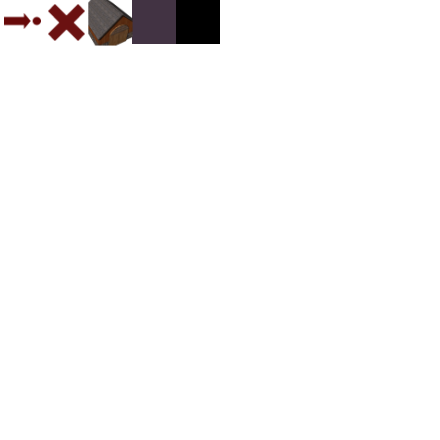
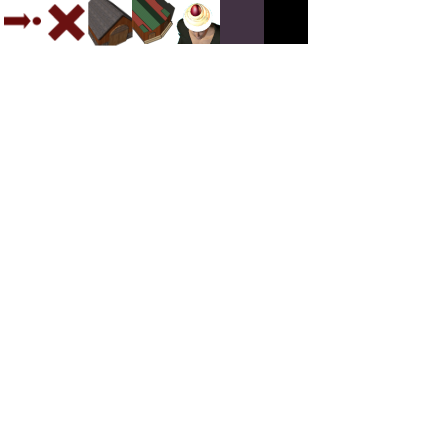
changelog'a bakın

Changed region(s): [[0.2955, 0.0, 0.7091, 0.1182]]

diff --git a/Player.cpp b/Player.cpp
@@ -31,14 +31,13 @@ void Player::buildStartingUnits(int x, int y)
 {
 	if (faction == "Osmanlı")
 	{
-		Koylu* k = new Koylu(screen);
-		k->instantBuild();
-		k->setPosition(x, y);
-		nesneler.push_back(k);
+		createKoylu(true);
 		
-		Ev* e = new Ev(screen);
+		SehirMerkezi* e = new SehirMerkezi(screen);
 		e->instantBuild();
-		e->setPosition(100, 300);
+		e->setPosition(128, 320);
+		Player *me = this;
+		e->createKoylu->dugme->clicked = makeFunctor((CBFunctor0*)0, *me, &Player::createKoylu);
 		nesneler.push_back(e);
 	}
 	else if (faction == "Bizans")
@@ -64,11 +63,10 @@ void Player::subtractCost(Cost a)
 	stone.setAmount(stone.getAmount() - a.getStoneAmount());
 }
 
-/*
 void Player::createKoylu()
 {
+	Koylu *temp = new Koylu(screen);
 	// öncelikle bakalim yapabiliyor muyuz...
-	Koylu *temp = new Koylu();
 	if (!haveReqs(temp))
 	{
 		cout << "Bu birim için gereksinimler karşılanmamış..." << endl;
@@ -83,14 +81,27 @@ void Player::createKoylu()
 		return;
 	}
 	
-	// Bu ikisini geçtiyse, birimSirasina at... 
-	birimSirasi.push_back(temp);
 	// paradan kes
 	subtractCost(temp->getCost());
+	temp->setPosition(360, 450);
+	// 
+	nesneler.push_back(temp);
+}
+
+void Player::createKoylu(bool instant)
+{
+	Koylu *temp = new Koylu(screen);
+	if (instant) 
+	{
+		temp->instantBuild();
+		temp->setPosition(360, 450);
+		nesneler.push_back(temp);
+		return;
+	}
 	
 	
 }
-
+/*
 void Player::createPiyade()
 {
 	// sonra
@@ -107,6 +118,8 @@ void Player::update()
 	list<BaseObject*>::iterator iter;
 	for(iter=nesneler.begin();iter!=nesneler.end();iter++)
 	{
+		if (!(*iter)->build())
+			break;
 		if ((*iter)->getType() == BaseObject::UNIT)
 		{
 			BaseUnit* birim = (BaseUnit*)(*iter);

diff --git a/Buildings.cpp b/Buildings.cpp
@@ -34,6 +34,20 @@ SehirMerkezi::SehirMerkezi(SDL_Surface *scr):BaseBuilding(scr, "Şehir Merkezi (
 	addReq("Temel Teknoloji");
 	faction = "Osmanlı";
 	cost = Cost(400, 0, 400);
+	
+	// 
+	setResim("graphics/buildings/osmanli/sehirMerkezi1.png");
+	healthBar = new SDLProgressBar(128, 4, GREEN, 0, hitpoints);
+	
+	komutlar = new SDLScreen(screen);
+	SDL_Rect trect;
+	trect.x = 176; trect.y = 0;
+	trect.w = trect.h = 44;
+	
+	createKoylu = new SDLCommandButton(screen, trect, "Yeni Köylü", new Koylu(screen));
+	createKoylu->setPosition(648, 195);
+	// createKoylu->dugme->clicked = 0;
+	komutlar->addWidget(createKoylu);
 }
 
 AskerOcagi::AskerOcagi(SDL_Surface *scr):BaseBuilding(scr, "Asker Ocağı")

diff --git a/SDLFont.cpp b/SDLFont.cpp
@@ -1,5 +1,8 @@
 #include "SDLFont.h"
 
+// TTF_Font* SDLFont::font = TTF_OpenFont("font.ttf", 14);
+TTF_Font* SDLFont::font = 0;
+
 SDLFont::SDLFont(string str, int size, SDL_Color color)
 {
 	if (!TTF_WasInit() && TTF_Init() == -1)
@@ -7,9 +10,13 @@ SDLFont::SDLFont(string str, int size, SDL_Color color)
 		cout << "err at sdl_ttf init" << endl;
 		return;
 	}
-	TTF_Font *font;
+	
+	//TTF_Font *font;
 	/// Font used here is a constant value: font.ttf
-	font = TTF_OpenFont("font.ttf", size);
+	//font = TTF_OpenFont("font.ttf", size);
+	if (font == 0)
+		font = TTF_OpenFont("font.ttf", 14);
+	
 	if (!font)
 	{
 		cout << "err at loading font" << endl;

diff --git a/SDLCommandButton.cpp b/SDLCommandButton.cpp
@@ -1,5 +1,7 @@
 #include "SDLCommandButton.h"
 
+SDLWidget* SDLCommandButton::ana = 0;
+
 SDLCommandButton::SDLCommandButton(SDL_Surface *scr, SDL_Rect k, string info, BaseObject* nesne)
 {
 	screen = scr;
@@ -13,7 +15,8 @@ SDLCommandButton::SDLCommandButton(SDL_Surface *scr, SDL_Rect k, string info, Ba
 	
 	dugme = new SDLButton("ui/commandButton.png", "");
 	dugme->clicked = 0;
-	ana = new SDLWidget("ui/commandList.png");
+	if (ana == 0)
+		ana = new SDLWidget("ui/commandList.png");
 	
 	aciklama = new SDLScreen(screen);
 	

diff --git a/Player.h b/Player.h
@@ -5,7 +5,7 @@
 #include <string>
 #include <list>
 #include <vector>
-
+#include "callback.h"
 #include "Cost.h"
 #include "Buildings.h"
 #include "Units.h"
@@ -52,7 +52,8 @@ class Player
 	void eventHandler(SDL_Event *event);
 	
 // 	// osmanlı birimleri
-// 	void createKoylu();
+	void createKoylu();
+ 	void createKoylu(bool instant);
 // 	void createAzab();
 // 	void createPiyade();
 // 	

diff --git a/SDLCommandButton.h b/SDLCommandButton.h
@@ -38,10 +38,12 @@ class SDLCommandButton:public SDLWidget
 	}
 	SDLButton *dugme;
 	
+	static SDLWidget *ana;
+	
 	protected:
 	bool over;
 	SDL_Rect kare;
-	SDLWidget *ana, *woodIcon, *foodIcon, *stoneIcon;
+	SDLWidget *woodIcon, *foodIcon, *stoneIcon;
 	SDLLabel *lblWood, *lblFood, *lblStone, *lblCommand;
 	BaseObject *nesne;
 	string inf;

diff --git a/Buildings.h b/Buildings.h
@@ -5,6 +5,7 @@
 #include <string>
 #include "BaseBuilding.h"
 #include "Technologies.h"
+#include "Units.h"
 
 using namespace std;
 
@@ -20,6 +21,7 @@ class SehirMerkezi:public BaseBuilding
 	public:
 	int state;
 	SehirMerkezi(SDL_Surface *screen);
+	SDLCommandButton* createKoylu;
 };
 
 class AskerOcagi:public BaseBuilding

diff --git a/Game.cpp b/Game.cpp
@@ -141,6 +141,9 @@ Game::Game(SDL_Surface *scr, string userFaction, short ai, string mapName)
 void Game::update()
 {
 	human->update();
+	lblWood->setText(human->getWoodAmount());
+	lblFood->setText(human->getFoodAmount());
+	lblStone->setText(human->getStoneAmount());
 	// TODO cpu->update() AI yazılınca
 }
 

diff --git a/SDLFont.h b/SDLFont.h
@@ -44,10 +44,13 @@ class SDLFont
 	/// \param y is the y-coordinate to be drawn
 	void drawMe(SDL_Surface* screen, int x, int y);
 	
+	static TTF_Font* font;
+	
 	private:
 	int w; 
 	int h;
 	SDL_Surface *s;
+	
 };
 
 

diff --git a/BaseObject.h b/BaseObject.h
@@ -7,7 +7,6 @@
 #include "Headers.h"
 #include "Cost.h"
 
-
 // temel olan 3 nesne: tech, bina, birim
 class BaseObject
 {

diff --git a/Units.h b/Units.h
@@ -5,7 +5,6 @@
 #include "Technologies.h"
 #include "Buildings.h"
 
-
 class Koylu:public BaseUnit
 {
 	public:

diff --git a/Headers.h b/Headers.h
@@ -6,5 +6,4 @@
 #include "SDL/SDL_ttf.h"
 #include "SDL/SDL_gfxPrimitives.h"
 
-
 #endif /*HEADERS_H_*/
